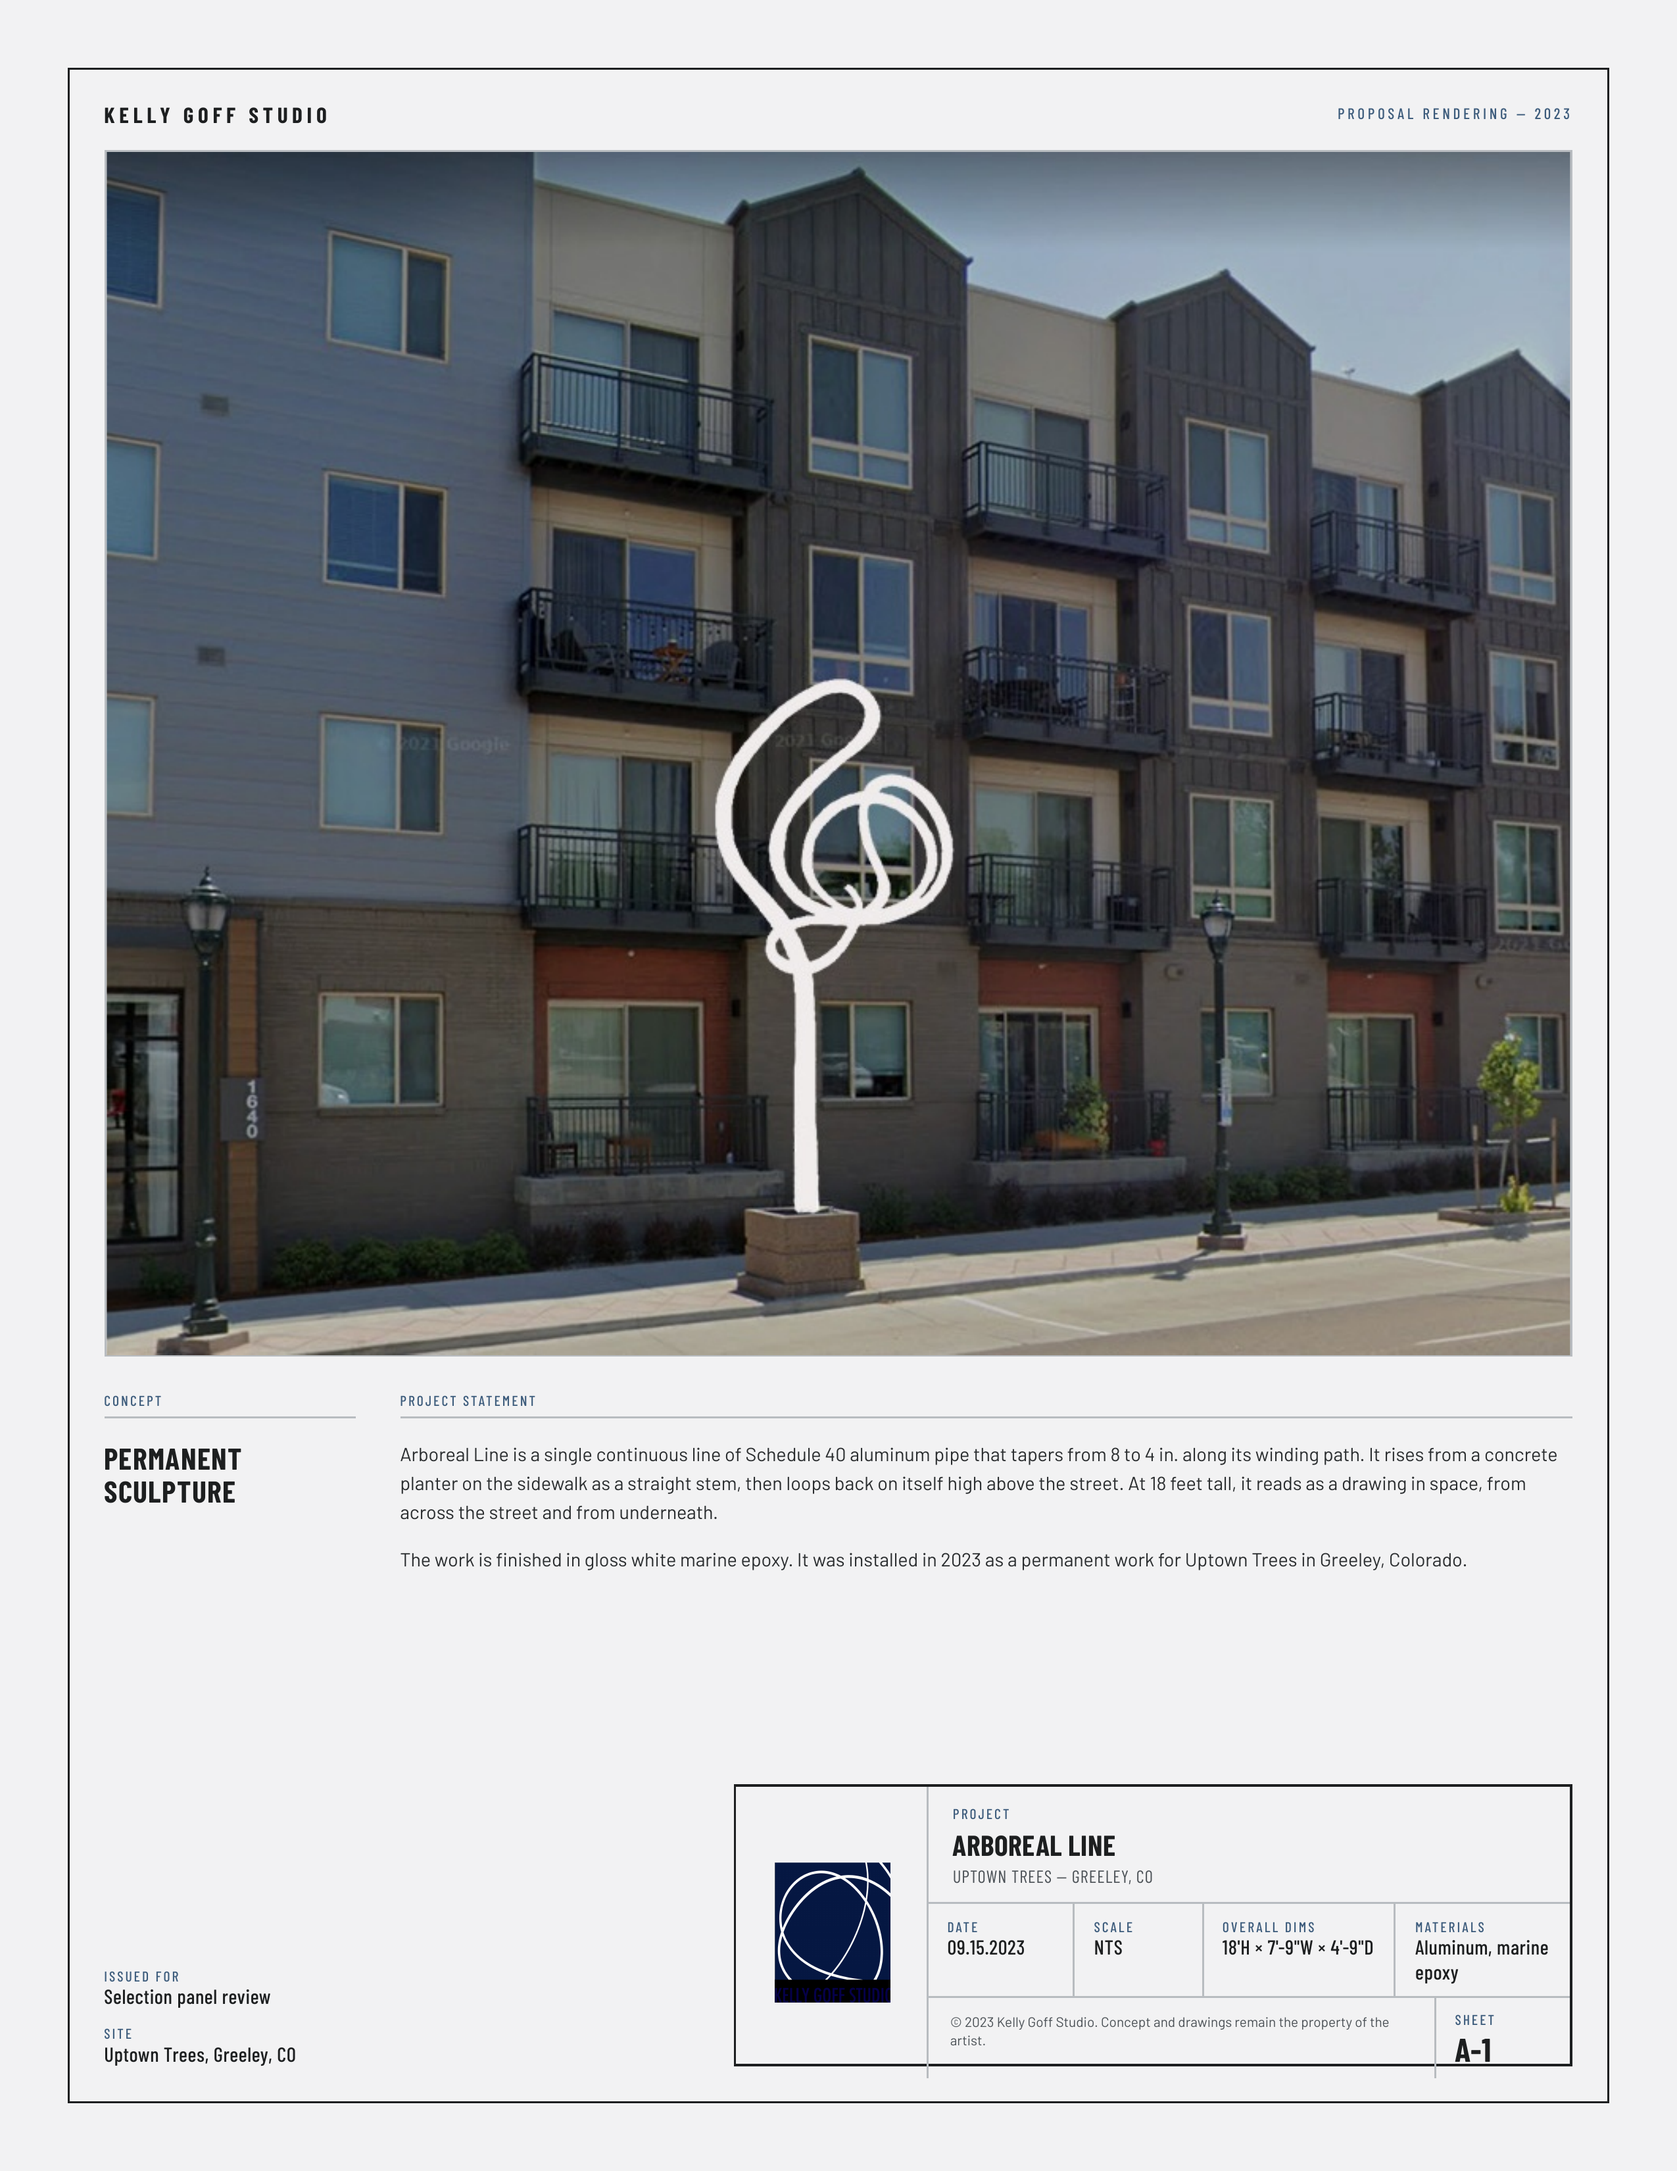
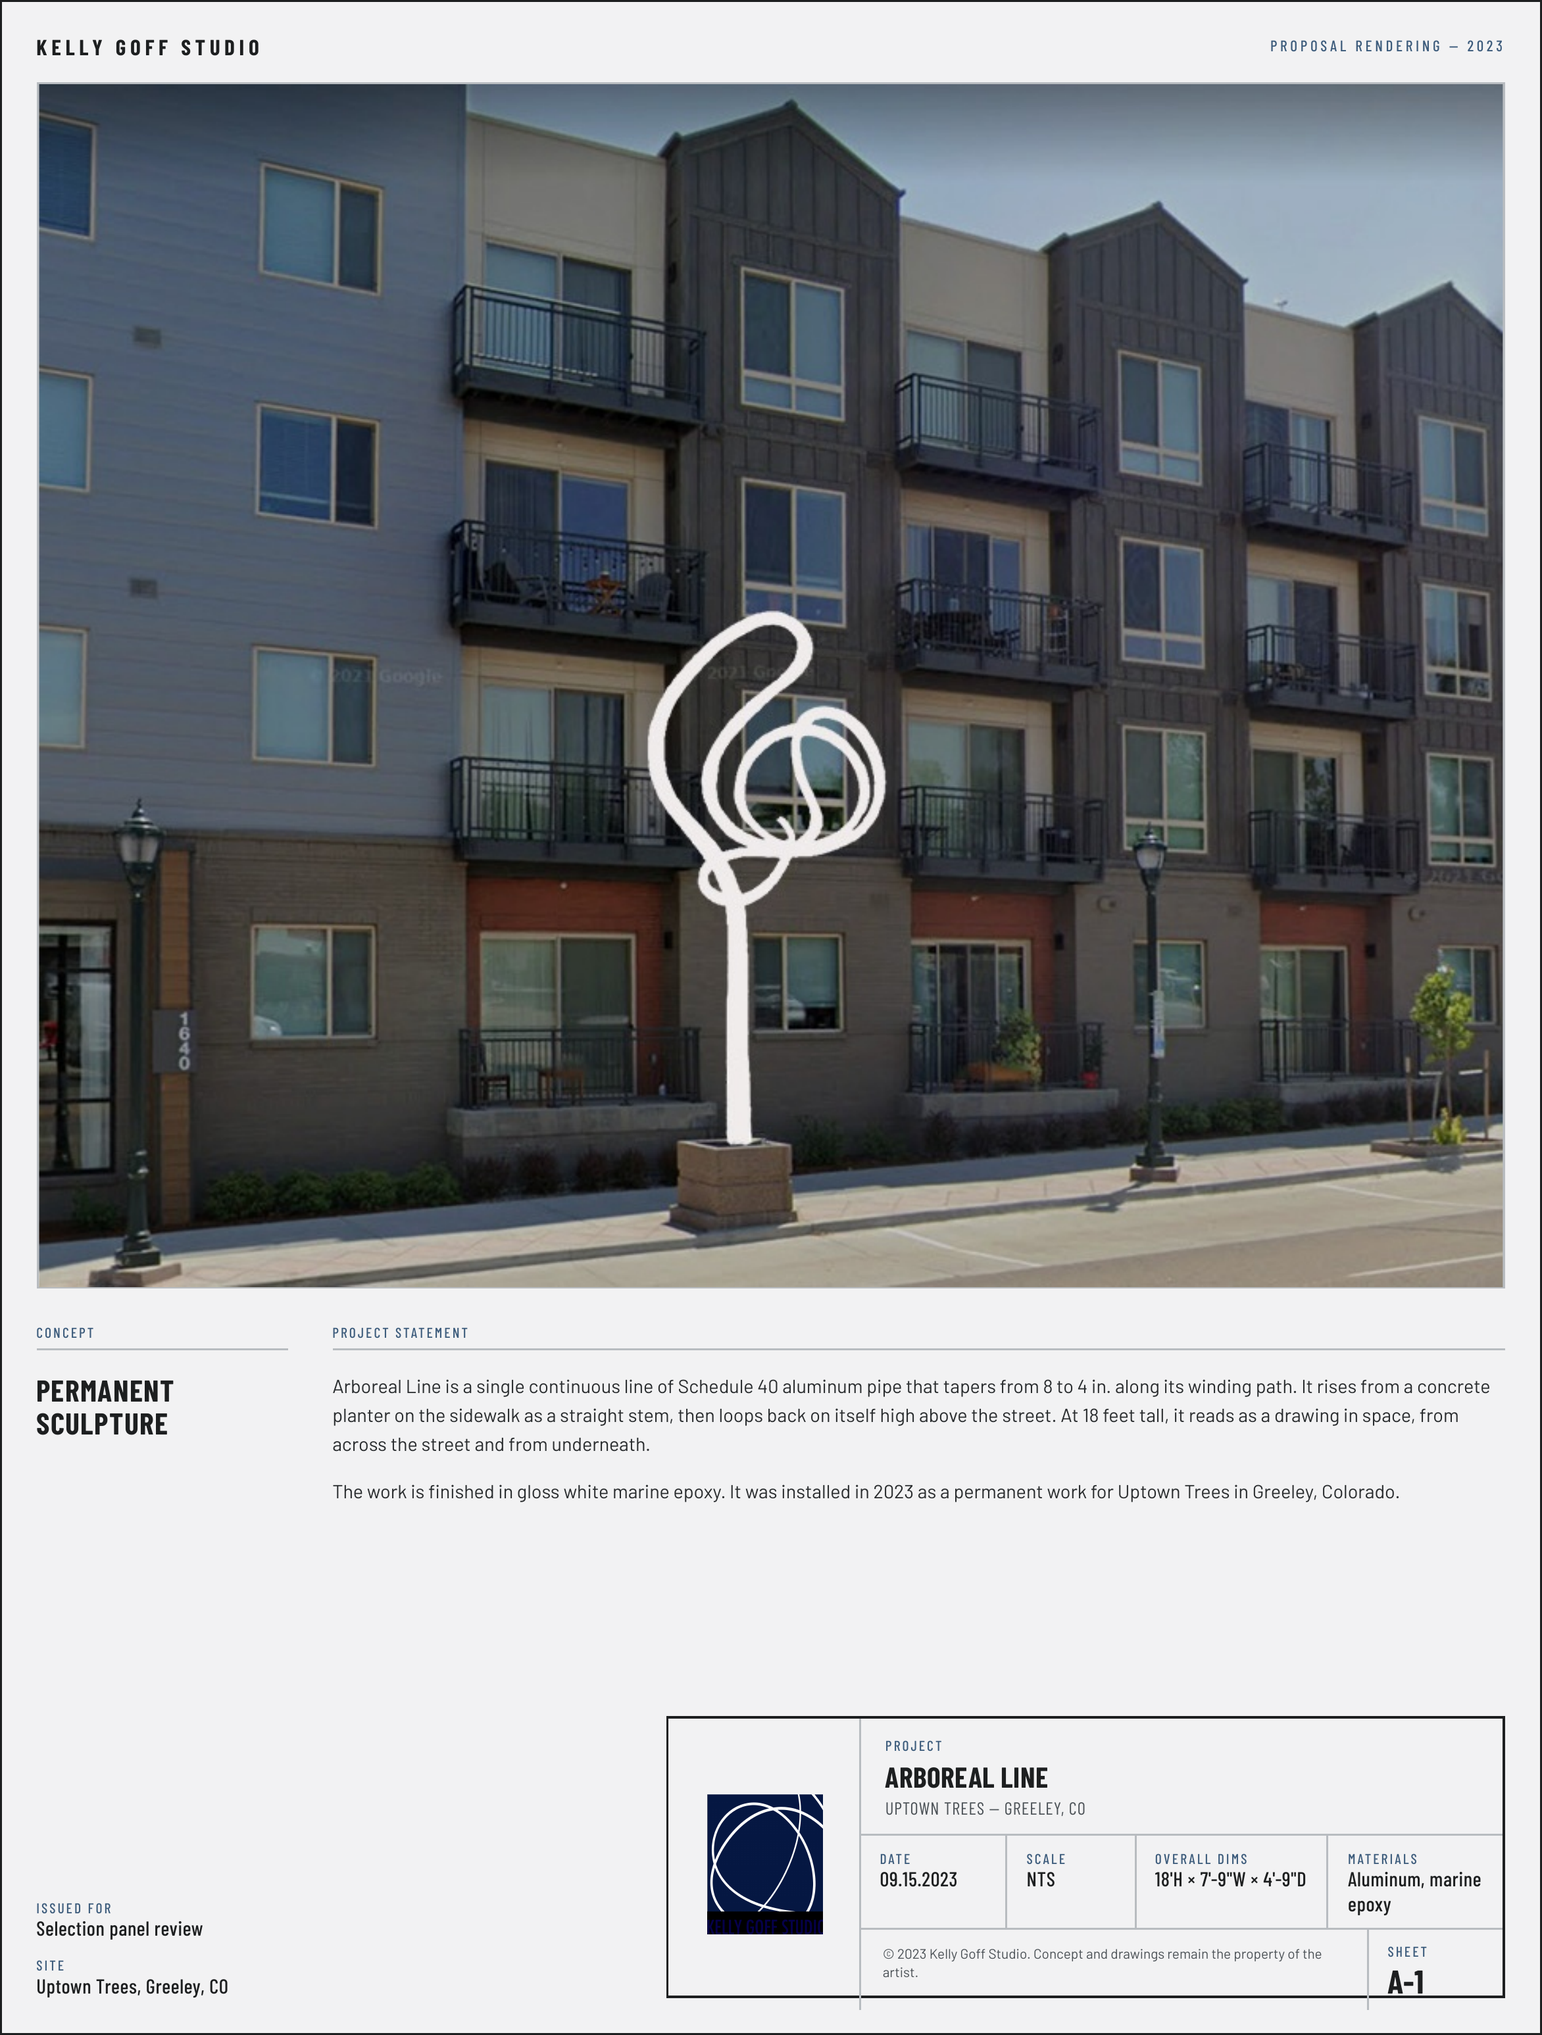
Arboreal Line sheets: architectural dimensions, trim border flush to image width
Claude-Session: https://claude.ai/code/session_01Y5zLHHVNGBALbwHoLrd9Wg

diff --git a/dist/public-work/arboreal-line/index.html b/dist/public-work/arboreal-line/index.html
@@ -9,6 +9,6 @@
 <header class="site-head"><div class="wrap"><a class="brand" href="/">Kelly Goff</a>
 <button class="menu-btn" aria-expanded="false" aria-controls="nav">Menu</button>
 <ul class="nav" id="nav"><li><a href="/public-work/" aria-current=page>Public work</a></li><li><a href="/studio/">Studio</a></li><li><a href="/fieldwork/">Fieldwork</a></li><li><a href="/about/">About</a></li><li><a href="/resume/">Resume</a></li><li><a href="/contact/">Contact</a></li></ul></div></header>
-<main id="main"><div class="wrap page-top"><div class="crumb"><a href="/public-work/">Public work</a> / Line works</div><h1 style="margin-top:10px">Arboreal Line</h1><div class="proj"><div class="gal"><figure><button type="button" data-lb="/img/arboreal-line/01-2400.webp" data-alt="Arboreal Line, Uptown Trees, Greeley, CO" data-cap="Arboreal Line" aria-label="Enlarge image 1 of 4"><img src="/img/arboreal-line/01-1600.webp" srcset="/img/arboreal-line/01-640.webp 640w, /img/arboreal-line/01-1100.webp 1100w, /img/arboreal-line/01-1600.webp 1600w, /img/arboreal-line/01-2400.webp 2400w" sizes="(max-width:860px) 100vw, 60vw" width="2500" height="1667" alt="Arboreal Line, Uptown Trees, Greeley, CO" decoding=async></button></figure><figure><button type="button" data-lb="/img/arboreal-line/02-2400.webp" data-alt="Arboreal Line, Uptown Trees, Greeley, CO, view 2" data-cap="Arboreal Line" aria-label="Enlarge image 2 of 4"><img src="/img/arboreal-line/02-1600.webp" srcset="/img/arboreal-line/02-640.webp 640w, /img/arboreal-line/02-1100.webp 1100w, /img/arboreal-line/02-1600.webp 1600w, /img/arboreal-line/02-2400.webp 2400w" sizes="(max-width:860px) 100vw, 60vw" width="2500" height="1667" alt="Arboreal Line, Uptown Trees, Greeley, CO, view 2" loading=lazy decoding=async></button></figure><figure><button type="button" data-lb="/img/arboreal-line/03-2400.webp" data-alt="Arboreal Line proposal sheet A-1: rendering on Greeley street, concept, and project statement" data-cap="Arboreal Line" aria-label="Enlarge image 3 of 4" class="ct"><img src="/img/arboreal-line/03-1600.webp" srcset="/img/arboreal-line/03-640.webp 640w, /img/arboreal-line/03-1100.webp 1100w, /img/arboreal-line/03-1600.webp 1600w, /img/arboreal-line/03-2400.webp 2400w" sizes="(max-width:860px) 100vw, 60vw" width="2550" height="3300" alt="Arboreal Line proposal sheet A-1: rendering on Greeley street, concept, and project statement" loading=lazy decoding=async></button><figcaption>Proposal sheet A-1</figcaption></figure><figure><button type="button" data-lb="/img/arboreal-line/04-2400.webp" data-alt="Arboreal Line proposal sheet A-2: front, left, and right elevations with dimension schedule" data-cap="Arboreal Line" aria-label="Enlarge image 4 of 4" class="ct"><img src="/img/arboreal-line/04-1600.webp" srcset="/img/arboreal-line/04-640.webp 640w, /img/arboreal-line/04-1100.webp 1100w, /img/arboreal-line/04-1600.webp 1600w, /img/arboreal-line/04-2400.webp 2400w" sizes="(max-width:860px) 100vw, 60vw" width="2550" height="3300" alt="Arboreal Line proposal sheet A-2: front, left, and right elevations with dimension schedule" loading=lazy decoding=async></button><figcaption>Proposal sheet A-2, elevations</figcaption></figure></div><aside class="facts" aria-label="Project details"><div class="fact"><div class="k">Year</div><div class="v">2023</div></div><div class="fact"><div class="k">Series</div><div class="v">Continuous Line</div></div><div class="fact"><div class="k">Material</div><div class="v">Aluminum and enamel</div></div><div class="fact"><div class="k">Size</div><div class="v">18 × 7.75 × 4.5 ft</div></div><div class="fact"><div class="k">Site</div><div class="v">Uptown Trees, Greeley, CO</div></div><div class="fact"><div class="k">Status</div><div class="v">Permanent installation</div></div></aside></div><nav class="pager" aria-label="More projects"><span><a href="/public-work/continuous-line-xii-silence/">← Continuous Line XII (silence)</a></span><a href="/public-work/">All public work</a><span><a href="/public-work/continuous-line-vi-levity/">Continuous Line VI (levity) →</a></span></nav></div><dialog class="lb" id="lb" aria-label="Image viewer"><div class="lb-in"><div class="stage"><img alt=""></div><div class="lb-cap"></div></div><button class="x" type="button">Close</button><button class="pv" type="button" aria-label="Previous image">←</button><button class="nx" type="button" aria-label="Next image">→</button></dialog></main>
+<main id="main"><div class="wrap page-top"><div class="crumb"><a href="/public-work/">Public work</a> / Line works</div><h1 style="margin-top:10px">Arboreal Line</h1><div class="proj"><div class="gal"><figure><button type="button" data-lb="/img/arboreal-line/01-2400.webp" data-alt="Arboreal Line, Uptown Trees, Greeley, CO" data-cap="Arboreal Line" aria-label="Enlarge image 1 of 4"><img src="/img/arboreal-line/01-1600.webp" srcset="/img/arboreal-line/01-640.webp 640w, /img/arboreal-line/01-1100.webp 1100w, /img/arboreal-line/01-1600.webp 1600w, /img/arboreal-line/01-2400.webp 2400w" sizes="(max-width:860px) 100vw, 60vw" width="2500" height="1667" alt="Arboreal Line, Uptown Trees, Greeley, CO" decoding=async></button></figure><figure><button type="button" data-lb="/img/arboreal-line/02-2400.webp" data-alt="Arboreal Line, Uptown Trees, Greeley, CO, view 2" data-cap="Arboreal Line" aria-label="Enlarge image 2 of 4"><img src="/img/arboreal-line/02-1600.webp" srcset="/img/arboreal-line/02-640.webp 640w, /img/arboreal-line/02-1100.webp 1100w, /img/arboreal-line/02-1600.webp 1600w, /img/arboreal-line/02-2400.webp 2400w" sizes="(max-width:860px) 100vw, 60vw" width="2500" height="1667" alt="Arboreal Line, Uptown Trees, Greeley, CO, view 2" loading=lazy decoding=async></button></figure><figure><button type="button" data-lb="/img/arboreal-line/03-2344.webp" data-alt="Arboreal Line proposal sheet A-1: rendering on Greeley street, concept, and project statement" data-cap="Arboreal Line" aria-label="Enlarge image 3 of 4" class="ct"><img src="/img/arboreal-line/03-1600.webp" srcset="/img/arboreal-line/03-640.webp 640w, /img/arboreal-line/03-1100.webp 1100w, /img/arboreal-line/03-1600.webp 1600w, /img/arboreal-line/03-2344.webp 2344w" sizes="(max-width:860px) 100vw, 60vw" width="2344" height="3094" alt="Arboreal Line proposal sheet A-1: rendering on Greeley street, concept, and project statement" loading=lazy decoding=async></button><figcaption>Proposal sheet A-1</figcaption></figure><figure><button type="button" data-lb="/img/arboreal-line/04-2344.webp" data-alt="Arboreal Line proposal sheet A-2: front, left, and right elevations with dimension schedule" data-cap="Arboreal Line" aria-label="Enlarge image 4 of 4" class="ct"><img src="/img/arboreal-line/04-1600.webp" srcset="/img/arboreal-line/04-640.webp 640w, /img/arboreal-line/04-1100.webp 1100w, /img/arboreal-line/04-1600.webp 1600w, /img/arboreal-line/04-2344.webp 2344w" sizes="(max-width:860px) 100vw, 60vw" width="2344" height="3094" alt="Arboreal Line proposal sheet A-2: front, left, and right elevations with dimension schedule" loading=lazy decoding=async></button><figcaption>Proposal sheet A-2, elevations</figcaption></figure></div><aside class="facts" aria-label="Project details"><div class="fact"><div class="k">Year</div><div class="v">2023</div></div><div class="fact"><div class="k">Series</div><div class="v">Continuous Line</div></div><div class="fact"><div class="k">Material</div><div class="v">Aluminum and enamel</div></div><div class="fact"><div class="k">Size</div><div class="v">18 × 7.75 × 4.5 ft</div></div><div class="fact"><div class="k">Site</div><div class="v">Uptown Trees, Greeley, CO</div></div><div class="fact"><div class="k">Status</div><div class="v">Permanent installation</div></div></aside></div><nav class="pager" aria-label="More projects"><span><a href="/public-work/continuous-line-xii-silence/">← Continuous Line XII (silence)</a></span><a href="/public-work/">All public work</a><span><a href="/public-work/continuous-line-vi-levity/">Continuous Line VI (levity) →</a></span></nav></div><dialog class="lb" id="lb" aria-label="Image viewer"><div class="lb-in"><div class="stage"><img alt=""></div><div class="lb-cap"></div></div><button class="x" type="button">Close</button><button class="pv" type="button" aria-label="Previous image">←</button><button class="nx" type="button" aria-label="Next image">→</button></dialog></main>
 <footer class="site-foot"><div class="wrap"><span>© 2008–2026 Kelly Goff</span><span>Norton, Massachusetts</span><a href="https://www.instagram.com/kellygoffstudio/" rel="me noopener">Instagram · @kellygoffstudio</a></div></footer>
 <script src="/assets/js/site.js" defer></script></body></html>
